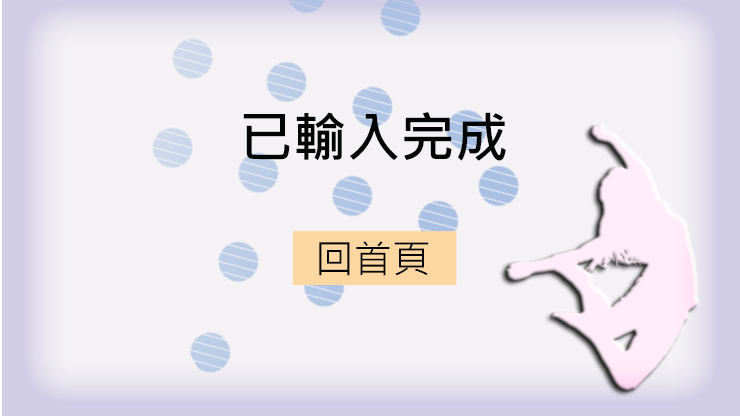
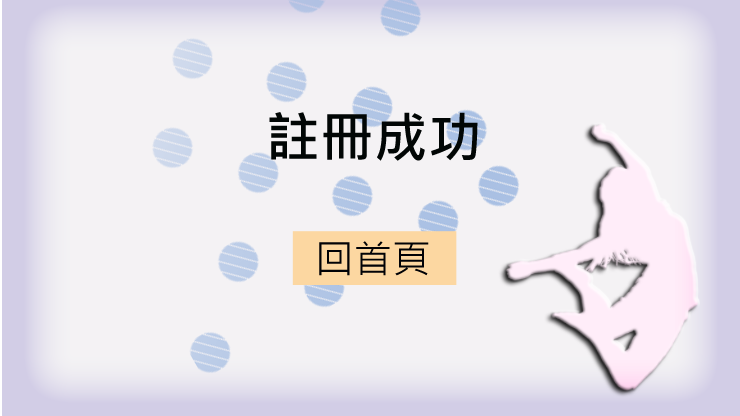
add image modify sitecontroller

diff --git a/statics/styles/style.css b/statics/styles/style.css
@@ -3470,6 +3470,47 @@ div.profile-message-reply
     margin:0px;
 }
 
+.button-addfriend
+{
+    background-image:url('../profile/button/addfriend.png');
+    background-repeat:no-repeat ;
+    width:50px;
+    height:50px;
+    padding:0px;
+    margin:0px;
+}
+
+.button-editor
+{
+    background-image:url('../profile/button/editor.png');
+    background-repeat:no-repeat ;
+    width:50px;
+    height:50px;
+    padding:0px;
+    margin:0px;
+}
+
+.button-register
+{
+    background-image:url('../profile/button/register.png');
+    background-repeat:no-repeat ;
+    width:159px;
+    height:57px;
+    padding:0px;
+    margin:0px;
+    float:left;
+}
+
+.button-rewrite
+{
+    background-image:url('../profile/button/rewrite.png');
+    background-repeat:no-repeat ;
+    width:146px;
+    height:57px;
+    padding:0px;
+    margin:0px;
+}
+
 /**
  * Sitemap
  */
@@ -3502,35 +3543,30 @@ div.profile-message-reply
     width: 660px;
 }
 
-/*#register > form,
-#register .scroll-container
-{
-    height: 330px;
-    overflow: hidden;
-}*/
-
-#register button
-{
-    background: url('../profile/button/button_register.png');
-    height: 22px;
-    margin-left: 25px;
-    padding: 0px;
-    width: 45px;
-}
-
 #register h4
 {
     margin: -10px 0 -5px;
 }
 
-div.register #rewrite
+div#success
 {
-    background-image:url('../profile/button_register.png');
+    background-image:url('../profile/finish.png');
     background-repeat:no-repeat ;
-    width:45px;
-    height:22px;
+    width:690px;
+    height:370px;
+    padding:25px;
+    margin:0px;
+}
+
+div#success a 
+{
+    display:block;
+    outline:1px solid red;
+    width:162px;
+    height:53px;
     padding:0px;
-    margin-left:180px;
+    margin-left:269px;
+    margin-top:207px;
 }
 
 div.login
@@ -3541,6 +3577,13 @@ div.login
     height:370px;
     padding:25px;
     margin:0px;
+}
+
+div.login ul
+{ 
+    padding:0px;
+    margin-left:225px;
+    margin-top:45px;
 }
 
 div.delete-group
@@ -3558,8 +3601,8 @@ div.login form
 {
     width:350px;
     height:110px;
-    margin-left:150px;
-    margin-top:160px;
+    margin-left:200px;
+    margin-top:90px;
     padding:0px;
 }
 

diff --git a/application/controllers/SiteController.php b/application/controllers/SiteController.php
@@ -33,7 +33,8 @@ class SiteController extends Controller
                     'channel',
                     'profile',
                     'editor',
-                    'sitemap'
+                    'sitemap',
+                    'success'
                 ),
                 'users'     => array('*')
             ),
@@ -194,7 +195,7 @@ class SiteController extends Controller
             $model->attributes = $_POST['login'];
             if ( $model->login() )
             {
-                $this->redirect(Yii::app()->user->returnUrl);
+                $this->redirect(array('site/index'));
             }
         }
         $this->setPageTitle(Yii::app()->name . ' - 登入');
@@ -258,7 +259,7 @@ class SiteController extends Controller
                     $calendar_subscriptions->invisible = 0;
                     if ( $character->save() && $item->save() && $calendar->save() && $calendar_subscriptions->save() )
                     {
-                        $this->redirect(array('profile/profile'));
+                        $this->redirect(array('site/success'));
                     }
                 }
                 else
@@ -292,5 +293,10 @@ class SiteController extends Controller
     public function actionSitemap()
     {
         $this->render('sitemap');
+    }
+
+    public function actionSuccess()
+    {
+         $this->render('success');
     }
 }

diff --git a/application/views/site/register.php b/application/views/site/register.php
@@ -163,8 +163,8 @@
         </dl>
         <div>
             <input name="token" value="<?php echo Yii::app()->security->getToken(); ?>" type="hidden" />
-            <button id="rewrite"><a href="<?php echo Yii::app()->createUrl('site/register'); ?>">重填</a></button>
-            <button type="submit">註冊</button>
+            <button class="button-rewrite"><a href="<?php echo Yii::app()->createUrl('site/register'); ?>" ></a></button>
+            <button type="submit" class="button-register"></button>
         </div>
     </form>
 </div>

diff --git a/application/views/site/login.php b/application/views/site/login.php
@@ -1,5 +1,10 @@
 <h1>登入</h1>
 <div class="login">
+    <ul>
+        <li>登入失敗</li>
+        <li>註冊後再登入吧</li>
+        <li>無權進入管理者頁面</li>
+    </ul> 
 <form method="POST">
     <dl>
         <dt>
